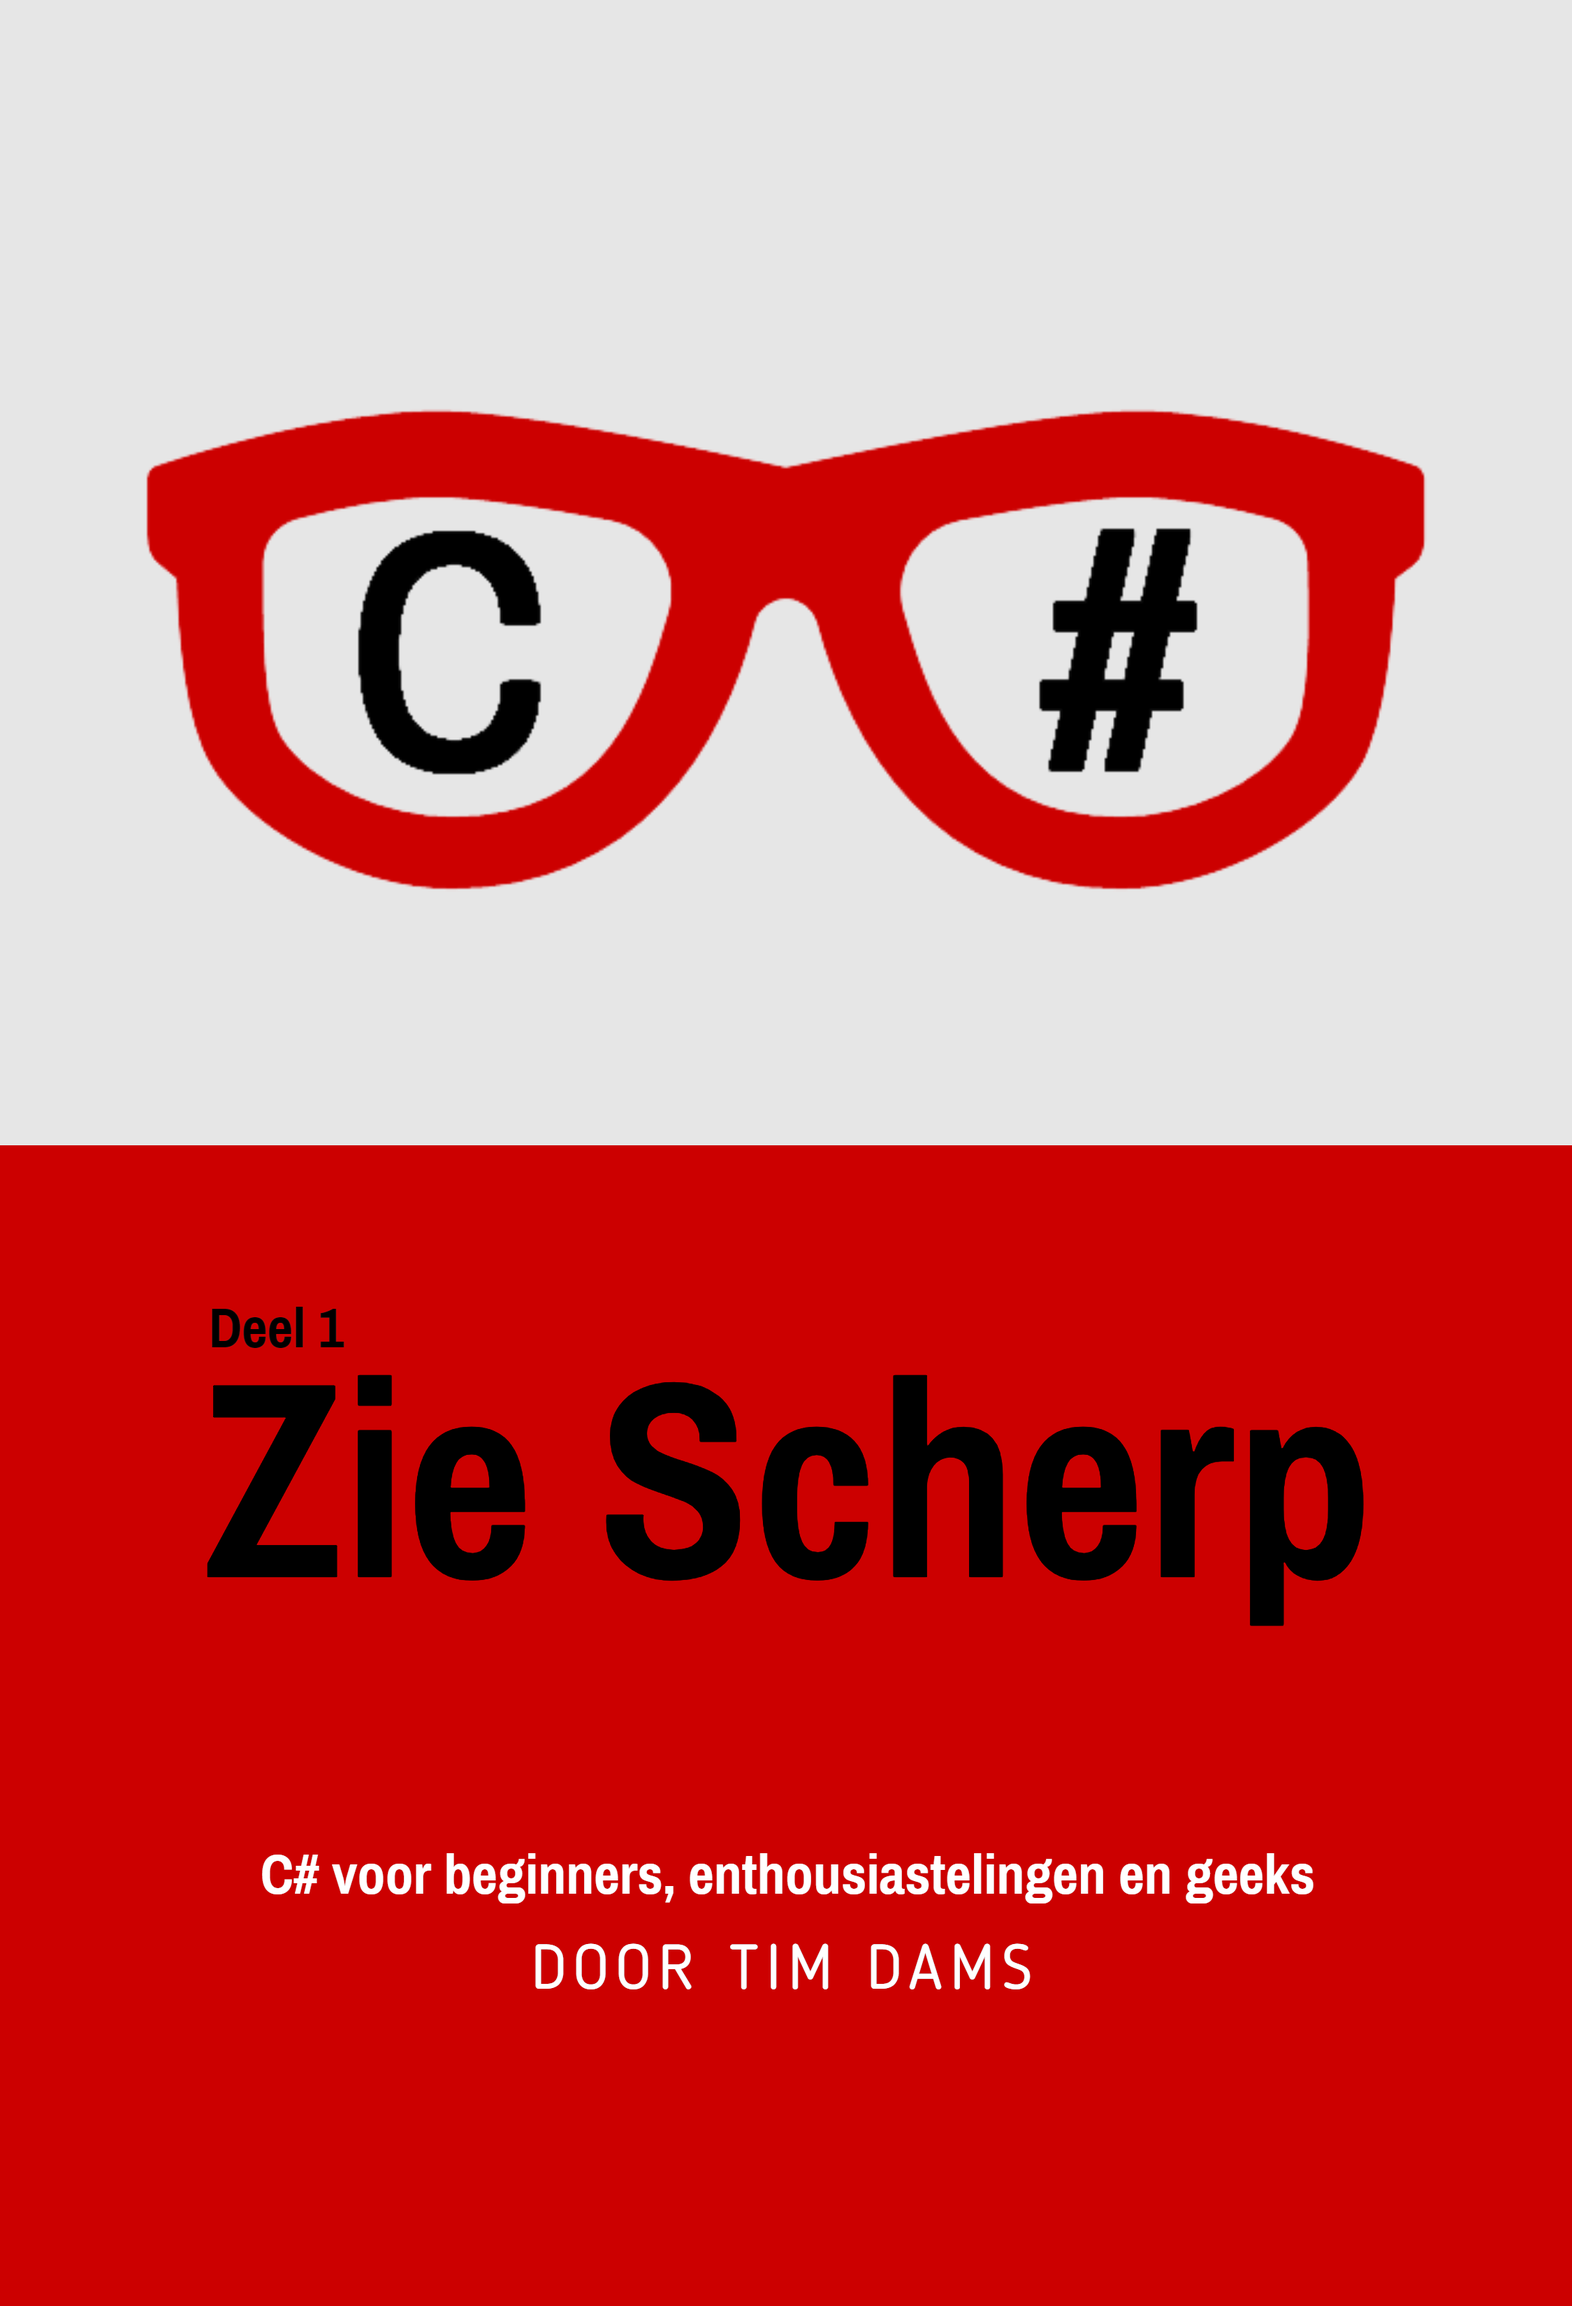
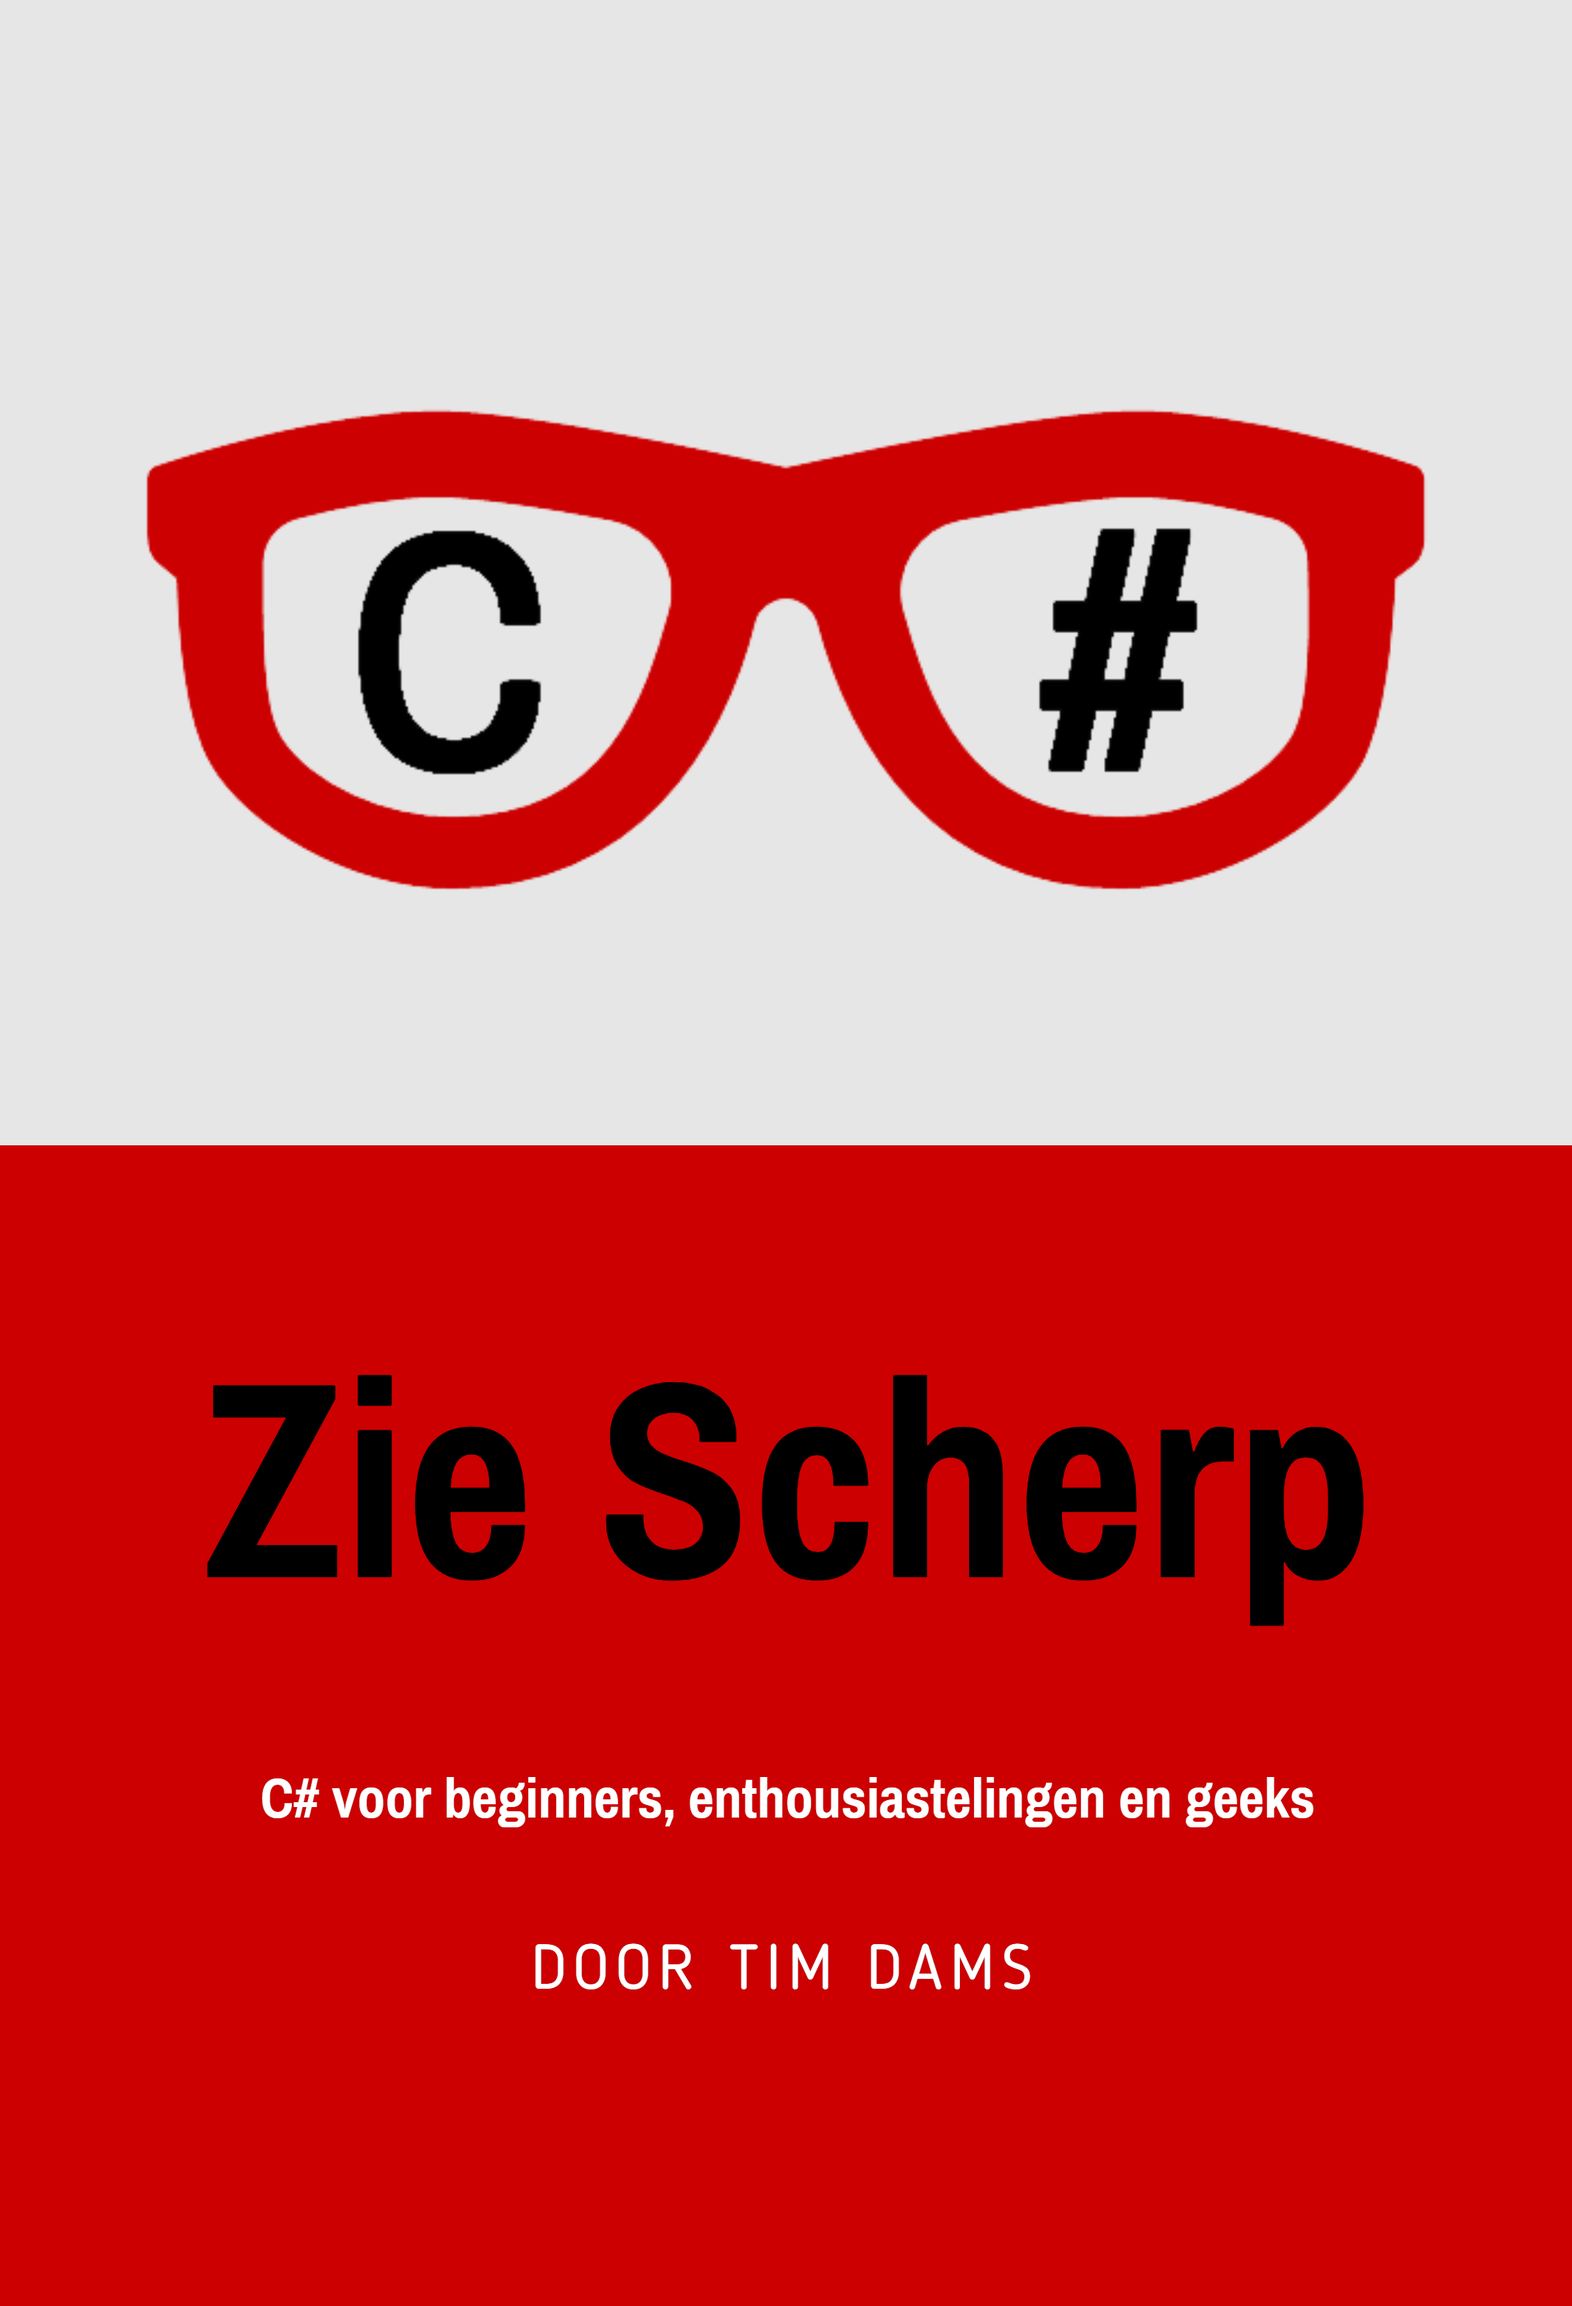
soon

Changed region(s): [[0.1556, 0.7491, 0.84, 0.8427], [0.1244, 0.5618, 0.2178, 0.593]]

diff --git a/boek.md b/boek.md
@@ -1,3 +1,11 @@
-Deze cursus (enkel semester 1) zal weldra in gedrukte vorm beschikbaar zijn via amazon.nl. Meer info soon.
+Deze cursus wordt ook aangeboden voor de "buitenwereld". Deze online cursus zal ten allen tijde gratis voor de studenten beschikbaar zijn. 
+
+De gepubliceerde versies zijn identiek aan deze cursus.
+
+Wil je toch een andere versie dan deze online versie dan kan dat via volgende kanalen:
+* Amazon (soon) : fullcolor paperback versie, in groter formaat om aantekeningen bij de tekst te plaatsen
+* Kobo (soon): ebook versie voor je e-reader
+* [Leanpub](http://leanpub.com/ziescherp/): hoge-kwaliteits pdf (AP studenten kunnen deze gratis downloaden via digitap.ap.be)
+
 
 ![](./assets/cover.png)
